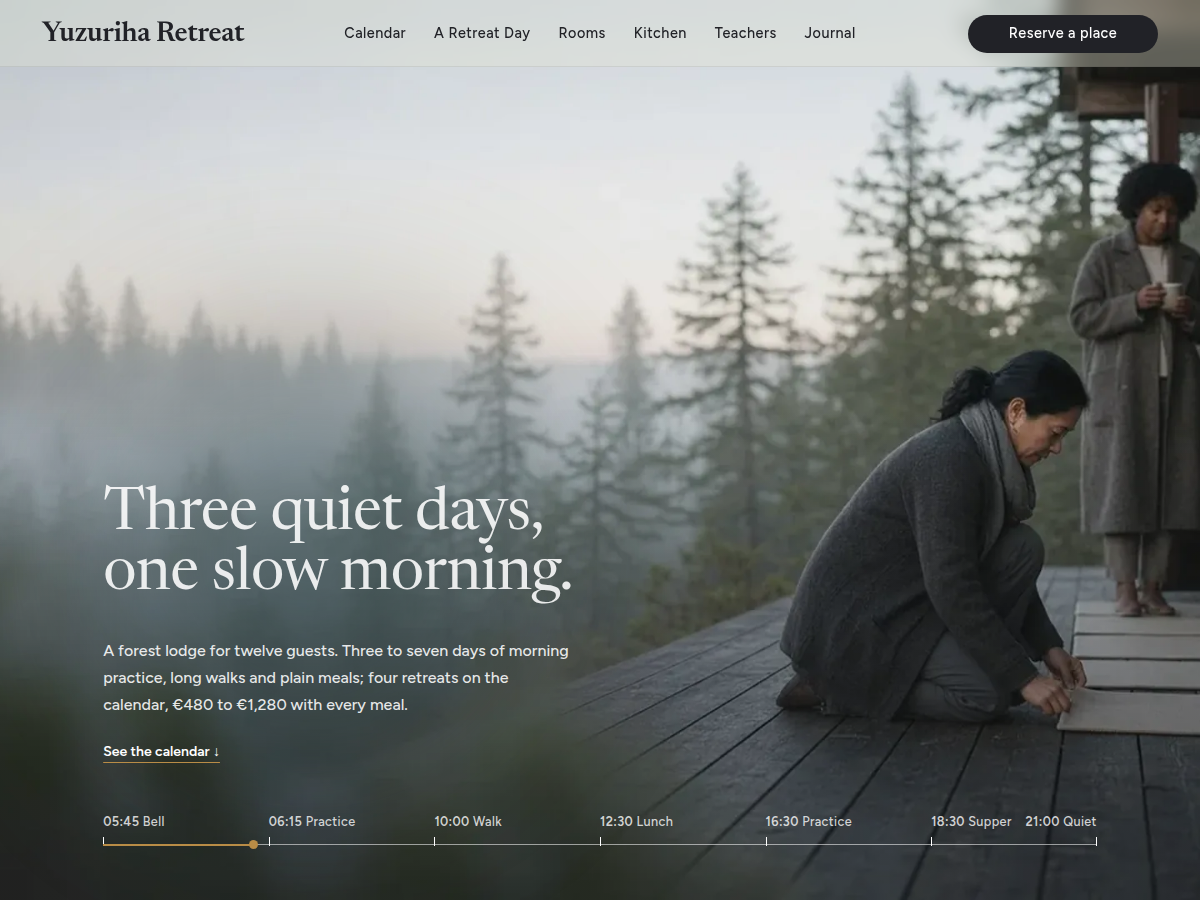
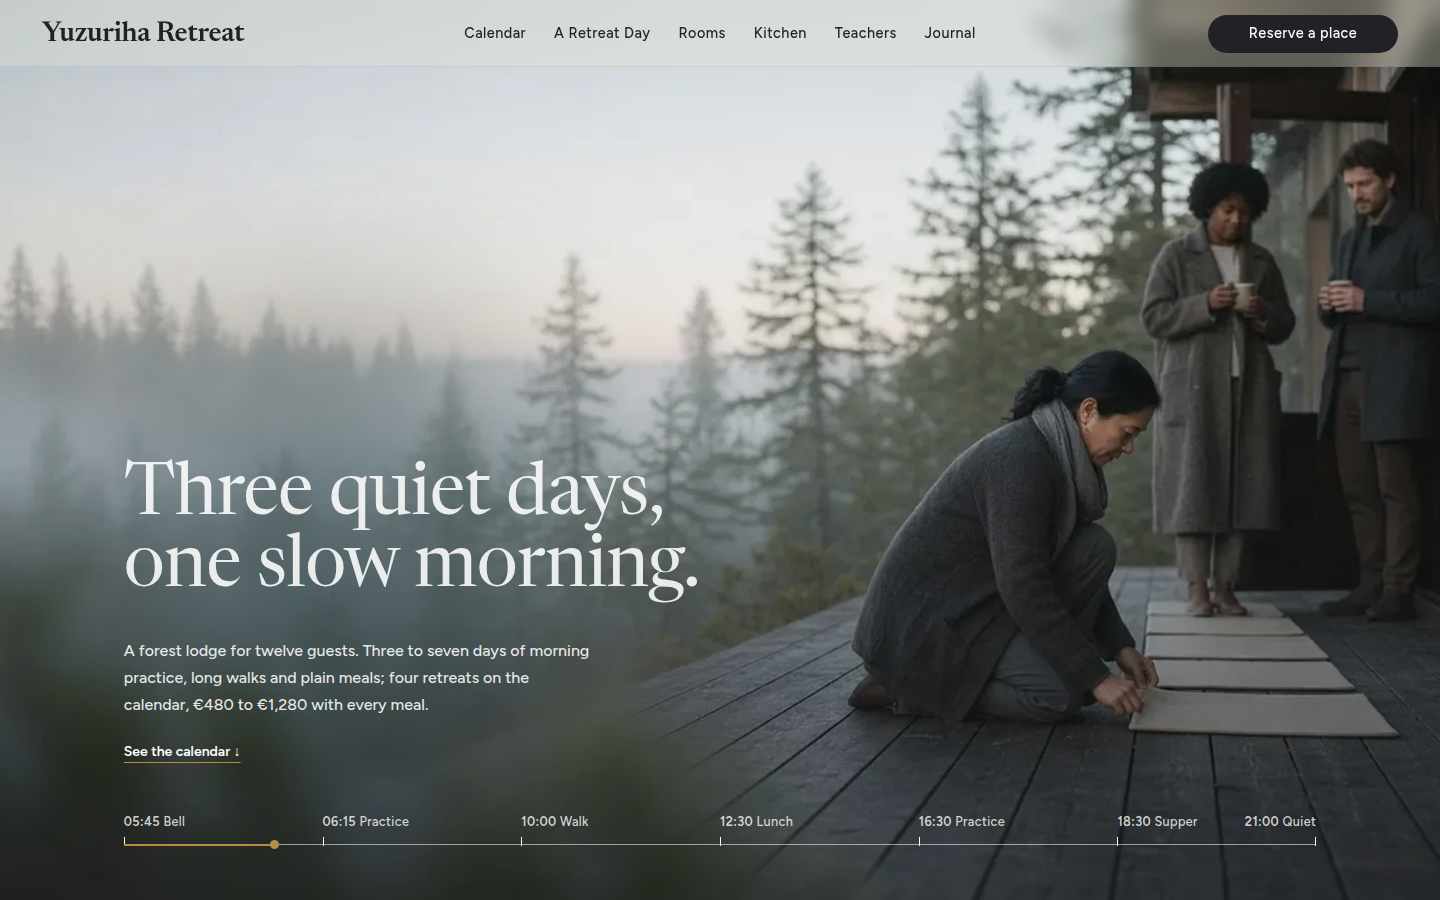
yuzuriha-retreat: stage 2 fix: footer subscribe width, single ochre day marker, mobile hero crop, empty-deck P06, README, screenshot

diff --git a/themes/yuzuriha-retreat/style.css b/themes/yuzuriha-retreat/style.css
@@ -126,7 +126,7 @@ img { max-width: 100%; height: auto; }
 .yr-dl__dot { position: absolute; left: 150px; top: -4px; width: 9px; height: 9px; margin-left: -4px; border-radius: 50%; background: var(--yr-ochre); }
 @media (max-width: 781px) {
 	.yr-hero.wp-block-cover { min-height: 100svh; min-height: max(640px, 100svh); }
-	.yr-hero .wp-block-cover__image-background { object-position: 72% 55%; }
+	.yr-hero .wp-block-cover__image-background { object-position: 88% 55%; }
 	.yr-hero__in { padding: 96px 20px 28px; }
 	.yr-hero .yr-hero__h1 { font-size: 2.75rem; line-height: 1.05; }
 	.yr-glow { width: 260px; height: 260px; top: -60px; left: -40px; }
@@ -181,7 +181,7 @@ img { max-width: 100%; height: auto; }
 .yr-stop__time { margin: 0 0 12px; font-family: var(--wp--preset--font-family--ui); font-size: .79rem; font-weight: 600; letter-spacing: .06em; line-height: 1; }
 .yr-stop__title { position: relative; margin: 0; padding-top: 16px; box-sizing: border-box; border-top: 1px solid var(--yr-ink); font-size: 1.3125rem; line-height: 1.3; }
 .yr-stop__title::before { content: ""; position: absolute; left: 0; top: -5px; width: 1px; height: 9px; background: var(--yr-ink); }
-.yr-stop:first-child .yr-stop__title::after { content: ""; position: absolute; left: -3px; top: -3px; width: 6px; height: 6px; border-radius: 50%; background: var(--yr-ochre); }
+.yr-dayrow--5 .yr-stop:first-child .yr-stop__title::after { content: ""; position: absolute; left: -3px; top: -3px; width: 6px; height: 6px; border-radius: 50%; background: var(--yr-ochre); }
 .yr-stop__txt { margin: 8px 0 0; font-family: var(--wp--preset--font-family--ui); font-size: .875rem; line-height: 1.7; color: var(--yr-muted); }
 .yr-trio { display: grid; grid-template-columns: repeat(3, 1fr); column-gap: 43px; margin-top: 64px; }
 .yr-trio__img { margin: 0; }
@@ -315,7 +315,7 @@ img { max-width: 100%; height: auto; }
 .sp-newsletter-fallback { display: grid; grid-template-columns: minmax(0, 320px) max-content; column-gap: 12px; align-items: end; max-width: 100%; }
 .sp-newsletter-fallback label { grid-column: 1 / -1; margin: 0 0 6px; font-family: var(--wp--preset--font-family--ui); font-size: .79rem; font-weight: 500; letter-spacing: .1em; text-transform: uppercase; }
 .sp-newsletter-fallback input[type="email"] { height: 48px; padding: 0 16px; font-family: var(--wp--preset--font-family--ui); font-size: .9rem; font-weight: 500; }
-.sp-newsletter-fallback button[type="submit"] { height: 48px; padding: 0 24px; border-radius: 9999px; font-family: var(--wp--preset--font-family--ui); font-size: .9rem; font-weight: 500; letter-spacing: .033em; }
+.sp-newsletter-fallback button[type="submit"] { width: auto; justify-self: start; height: 48px; padding: 0 24px; border-radius: 9999px; font-family: var(--wp--preset--font-family--ui); font-size: .9rem; font-weight: 500; letter-spacing: .033em; }
 .sp-newsletter-fallback p { grid-column: 1 / -1; margin: 10px 0 0; font-family: var(--wp--preset--font-family--ui); font-size: .79rem; line-height: 1.6; color: inherit; }
 .sp-newsletter-fallback input::placeholder { color: var(--yr-muted); }
 @media (max-width: 781px) { .sp-newsletter-fallback { grid-template-columns: 1fr; row-gap: 10px; } }

diff --git a/themes/yuzuriha-retreat/inc/i18n/en.php b/themes/yuzuriha-retreat/inc/i18n/en.php
@@ -6,7 +6,7 @@ return array(
 	'alt_p03' => 'Rows of guests in a forward fold on mats in the timber practice hall, tall windows onto the trees and soft daylight.',
 	'alt_p04' => 'A small group walking single file on a mossy forest path among tall straight trunks, a guide at the front, light fog.',
 	'alt_p05' => 'Supper at the long table with twelve places, bowls, bread and low pendant lamps, hands passing a dish.',
-	'alt_p06' => 'Guests stand among rows of dark yoga mats with a folded wool blanket on each on a timber deck at dawn, mist in the forest below.',
+	'alt_p06' => 'A row of twelve pale yoga mats on an empty timber deck at dawn, a folded grey wool blanket at the end of each, mist in the forest below.',
 	'alt_p07' => 'Walkers crossing a narrow timber footbridge over a forest stream.',
 	'alt_p08' => 'Two guests sit by the large window of a timber room with a linen bed and a folded wool blanket, looking out at the larch forest.',
 	'alt_p09' => 'The lodge seen from the slope: a long two-storey timber building with a covered deck on posts among larch and pine, in overcast morning light.',

diff --git a/themes/yuzuriha-retreat/README.md b/themes/yuzuriha-retreat/README.md
@@ -3,4 +3,4 @@
 Editorial theme for a residential retreat lodge. Home: full-bleed first-light photograph under a frosted 67px header with a day-line, tall portrait with an outline circle label, three square calendar cards, one retreat day on two hairline rows, two offset lodge photographs, price table, people rows, the one way to reserve, journal grid and a ridgeline-cut closing band. Fonts: Newsreader and Figtree. Brand and design notes in `brand.md` and `brand/`.
 
 ## Status
-Stage 1 (English) delivers the home page; inner pages are short placeholders until the inner-pages step. `screenshot.png` is a capture of the home first screen.
+Stage 2 fix round done for the home page: footer subscribe button sized to its label, ochre marker only on the first stop of the day, mobile hero crop moved off the headline, mats photograph (P06) regenerated as an empty deck. Inner pages and the zh-TW, ja, fr and de translations follow in later steps. `screenshot.png` is a capture of the home first screen.
